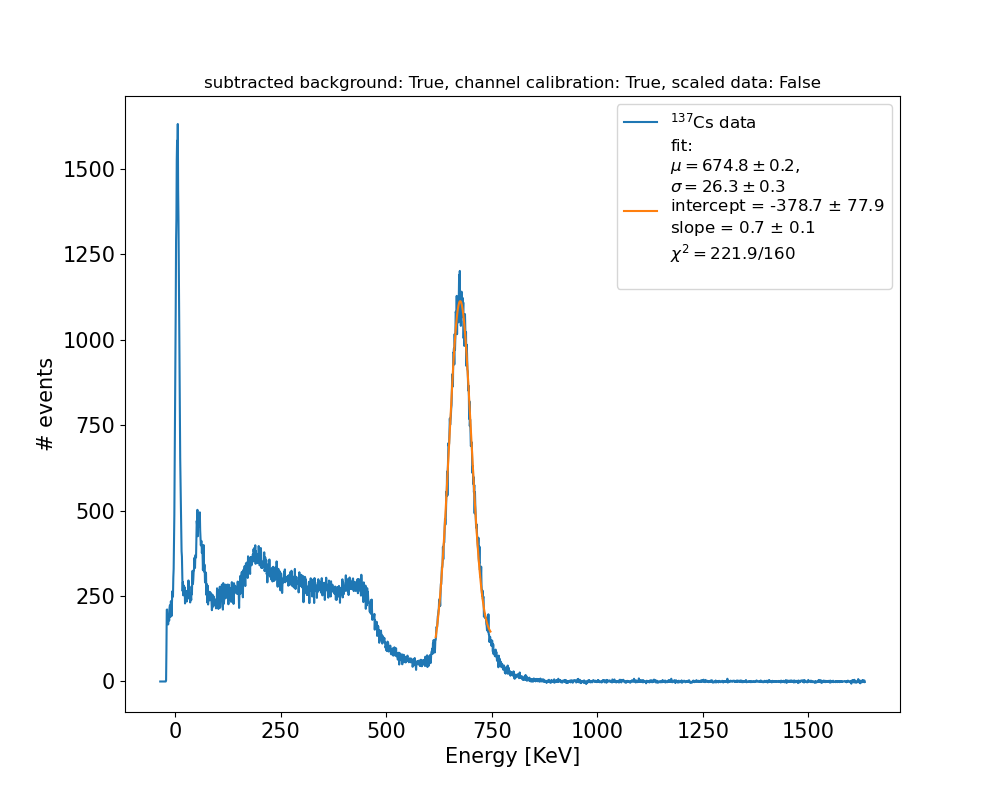
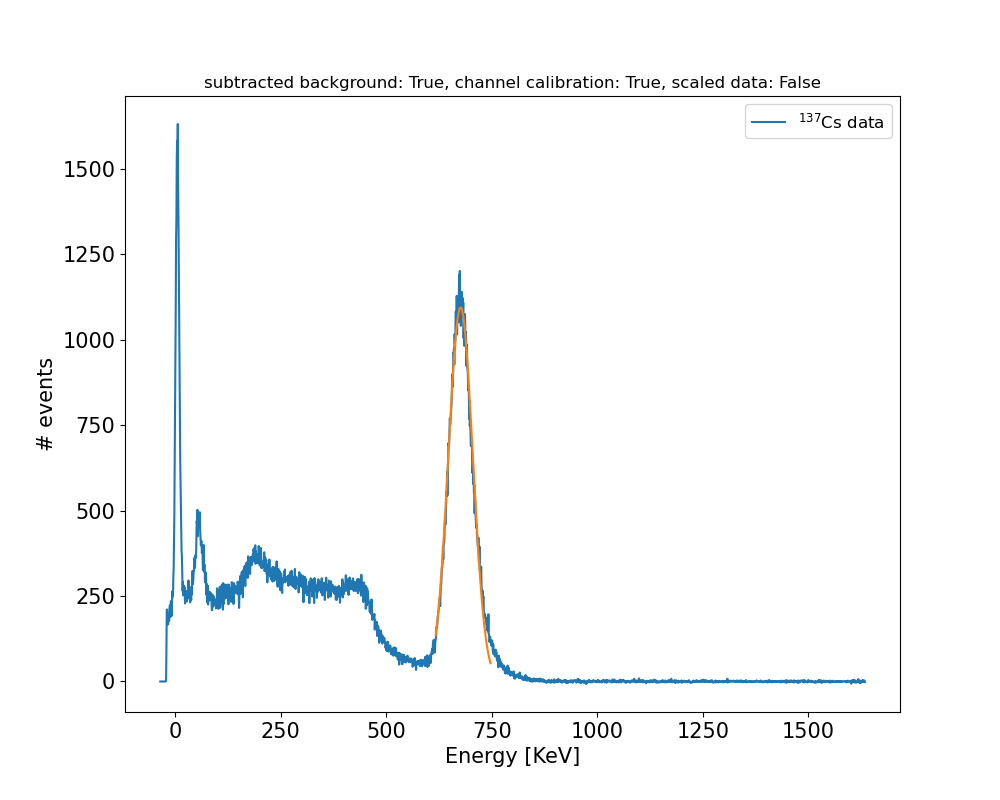
nesten ferdig med å fikse 4a

diff --git a/session4a/analyze_data.py b/session4a/analyze_data.py
@@ -5,15 +5,15 @@ from scipy.optimize import curve_fit
 import scipy.special as sci
 
 class ManageData:
-    def __init__(self, filename, create_fig=True):
+    def __init__(self, filename, create_fig=True, calibration_coeffs = None):
         self.filename = filename
+        self.calibration = calibration_coeffs # found manually, passed as argument
         self._read_spe()
         self.get_fit_called = False
         self.calibrate_background = False
         self.calibrate_calibration = False
         self.calibrate_scale = False
         self.model = None
-
         if create_fig: self.fig, self.ax = plt.subplots(figsize=(10, 8))
     
     def _read_spe(self):
@@ -32,8 +32,9 @@ class ManageData:
             skip_header=11, max_rows=1, dtype=int)
         self.signal = np.genfromtxt(self.filename, skip_header=12,
             max_rows=self.last_channel+1, dtype=float)
-        self.calibration = np.genfromtxt(self.filename,
-            skip_header=11+self.last_channel+10+2+1, max_rows=1, dtype=float, # had to move down one extra row to find the calibration in the new .Spe files
+        if self.calibration is None: # if no calibration coeffs are passed, read them from .Spe files
+            self.calibration = np.genfromtxt(self.filename,
+                skip_header=11+self.last_channel+10+2+1, max_rows=1, dtype=float, # had to move down one extra row to find the calibration in the new .Spe files
             usecols=[0,1,2])
         self.channels = np.arange(self.first_channel, self.last_channel+1, 1, dtype=float)        
 
@@ -314,8 +315,10 @@ def gamma_wrapper(x, A, k, loc, scale, slope, intercept):
 
 if __name__ == "__main__":
     distance_plot = False
-    sources_plot = False
-    calibration_plot = True
+    sources_plot = True
+    calibration_plot = False
+    #calibration_coeffs = [-445.42857142857133,4.365079365079365,0] # last one is dummy, order is reversed because of how class uses them
+    calibration_coeffs = None # the ones found using Barium where absolutely terrible, useless
 
     Ba_gamma_1 = 81.0 # keV
     Ba_gamma_2 = 356 # keV
@@ -372,14 +375,14 @@ if __name__ == "__main__":
     if distance_plot:
         distances = ["5cm","10cm","15cm","20cm"]
         for distance in distances:
-            Cs137 = ManageData(f"137Cs_{distance}.Spe")
+            Cs137 = ManageData(f"137Cs_{distance}.Spe",calibration_coeffs=calibration_coeffs)
             Cs137.calibrate_data(calibration=True, background=avg_background, scale=False)
             Cs137.plot_data(show_plot=False, label=r"$^{137}$Cs data")
             adjust = -50
             Cs137.get_fit(
                 curve_start = 450 - adjust+300,
                 curve_stop = 630 + adjust+380,
-                init_guess = [10000, Cs_gamma, 20, -1e-3, 0],   # Amplitude, mean, variance, slope, intercept. Guess for normal distribution with slope.
+                init_guess = [10000, Cs_gamma, 20],   # Amplitude, mean, variance Guess for normal distribution 
                 plot_fit = True,
                 show_plot = True,
                 model = "normal"
@@ -387,7 +390,7 @@ if __name__ == "__main__":
     if sources_plot:
         sources = ["133Ba","60Co"]
         for source in sources:
-            data = ManageData(f"{source}_5cm.Spe")
+            data = ManageData(f"{source}_5cm.Spe",calibration_coeffs=calibration_coeffs)
             data.calibrate_data(calibration=True, background=avg_background, scale=False)
             if source=="133Ba":
                 data.plot_data(show_plot=False, label=rf"{source} data")
@@ -395,19 +398,19 @@ if __name__ == "__main__":
                 data.get_fit(
                     curve_start = 50 - adjust,
                     curve_stop = 200 + adjust,
-                    init_guess = [10000, Ba_gamma_1, 20, -1e-3, 0],   # Amplitude, mean, variance, slope, intercept. Guess for normal distribution with slope.
+                    init_guess = [10000, Ba_gamma_1, 20],   # Amplitude, mean, variance Guess for normal distribution
                     plot_fit = True,
                     show_plot = False, # plotting more peaks
                     model = "normal"
                 ) 
-                data2 = ManageData(f"{source}_5cm.Spe")
+                data2 = ManageData(f"{source}_5cm.Spe",calibration_coeffs=calibration_coeffs)
                 data2.calibrate_data(calibration=True, background=avg_background, scale=False)
                 data2.plot_data(show_plot=False, label=rf"{source} data")
                 adjust = -50
                 data2.get_fit(
                     curve_start = 370 - adjust,
                     curve_stop = 600 + adjust,
-                    init_guess = [10000, Ba_gamma_2, 20, -1e-3, 0],   # Amplitude, mean, variance, slope, intercept. Guess for normal distribution with slope.
+                    init_guess = [10000, Ba_gamma_2, 20],   # Amplitude, mean, variance. Guess for normal distribution 
                     plot_fit = True,
                     show_plot = True,
                     model = "normal"
@@ -418,19 +421,19 @@ if __name__ == "__main__":
                 data.get_fit(
                 curve_start = 1250 - adjust+120,
                 curve_stop = 1550 + adjust+120,
-                init_guess = [100, Co_gamma_1, 20, -1e-3, 0],   # Amplitude, mean, variance, slope, intercept. Guess for normal distribution with slope.,   # Amplitude, mean, variance, slope, intercept. Guess for normal distribution with slope.
+                init_guess = [100, Co_gamma_1, 20],   # Amplitude, mean, variance Guess for normal distribution 
                     plot_fit = True,
                     show_plot = False, # are plotting more peaks
                     model = "normal"
                 ) 
-                data2 = ManageData(f"{source}_5cm.Spe")
+                data2 = ManageData(f"{source}_5cm.Spe",calibration_coeffs=calibration_coeffs)
                 data2.calibrate_data(calibration=True, background=avg_background, scale=False)
                 data2.plot_data(show_plot=False, label=rf"{source} data")
                 adjust = -50
                 data2.get_fit(
                 curve_start = 1410 - adjust+150,
                 curve_stop = 1700 + adjust+150,
-                init_guess = [1000, Co_gamma_2, 20, -1e-3, 0],   # Amplitude, mean, variance, slope, intercept. Guess for normal distribution with slope.
+                init_guess = [1000, Co_gamma_2, 20],   # Amplitude, mean, variance, . Guess for normal distribution.
                     plot_fit = True,
                     show_plot = True,
                     model = "normal"

diff --git a/session4a/post.py b/session4a/post.py
@@ -29,34 +29,31 @@ for i in range(len(A0s)):
 # Skrive til fil
 np.savetxt('activity.txt', tekst, fmt='%s')
 
-# use approximation where FWHM = 2.355 sigma
-# end-start = 2.355 sigma
-def events(const_gauss,slope,intercept,FWHM): # calculate events under peak
-    # area under FWHM approximately 76% of total area of Gaussian
-    return const_gauss*0.76*FWHM + slope/2*(FWHM**2)+FWHM*intercept
-
-
+# area under gaussian
+def events(amp,sigma):
+    return amp*sigma*((2*np.pi)**0.5)
 
 
 ####### Distances, 137Cs #####################
 distances = [5,10,15,20] # in cm
-slopes = [1.8,0.7,0.4,0.3]
-mus = [671,675,677,677]
-intercepts = [-1067,-379,-228,-179]
-peak_heights = [2600,1100,550,330]
-consts_gauss = []
-for i in range(len(distances)):
-    consts_gauss.append(peak_heights[i]-intercepts[i]-slopes[i]*mus[i])
-FWHMs = [57.14,53.88,50.16,46.81] # in keV
+distance_errs = [0.1,0.1,0.1,0.1] # 5 mm error because of resolution of ruler
+mus = []
+mu_errs = []
+sigmas = []
+sigma_errs = []
+amps = []
+amp_errs = []
 ts_dist = [289,295,297,298] # in seconds
 tekst = [] # re-initilize tekst
 tot_eff_dist = []
+tot_eff_dist_errs = []
 for i in range(len(distances)):
     A = activity(A0s[0],dts[0],T2s[0])*3.7*10**4 # calculate acitvity for 137Cs # convert from microCurie to disintegrations/sec
-    N = events(consts_gauss[i],slopes[i],intercepts[i],FWHMs[i])
+    N = events(amps[i],sigmas[i])
     tot_eff = epsilon_tot(N,A,ts_dist[i],0.8501)
     tot_eff_dist.append(tot_eff)
-    Omega = solid_angle(2.9,distances[i])
+    tot_eff_dist_errs.append()
+    Omega = solid_angle(2.54,distances[i])
     tekst.append(f"{Sources[0]} & {tot_eff} & {distances[i]} & {Omega}\\\\")
 
 np.savetxt('tot_eff.txt', tekst, fmt='%s')
@@ -71,7 +68,7 @@ def my_function2(x,a):
 xdata = np.arange(5,21,0.5)
 popt, pcov = curve_fit(my_function, np.array(distances),np.array(tot_eff_dist))
 plt.plot(xdata, my_function(xdata, *popt), color='red', label='Fitted Curve')
-plt.plot(distances,tot_eff_dist,'bo',label="137Cs 662keV peak")
+plt.errorbar(distances, tot_eff_dist, yerr=tot_eff_dist_errs,label= "137Cs 662keV peak", fmt='o',color='blue')
 plt.title("Total peak efficiency as a function of \n distance between detector and source")
 plt.xlabel('cm')
 plt.ylabel("detector efficiency")
@@ -83,29 +80,30 @@ plt.close()
 ##### Energy peaks, all sources #################
 Es = [81.0,356.0,662.0,1173.2,1332.5]
 tot_eff_all = []
+tot_eff_all_errs = []
 Is = [0.3331,0.6205,0.8501,0.9988,0.9998]
-sigmas = [6.2,16.2,57.14/2.355,30.1,34.0] # in keV # 
 ts_all = [293,293,289,298,298] # in seconds
-slopes = [-11.1,-2.6,1.8,0.0,0.0]
-mus = [63.0,360.4,671.2,1203.5,1365.1]
-intercepts = [1111.8,1289.7,-1066.8,11.7,28.5]
-peak_heights = [4500,1800,2600,25,20]
-consts_gauss = []
-for i in range(len(Es)):
-    consts_gauss.append(peak_heights[i]-intercepts[i]-slopes[i]*mus[i])
+mus = []
+mu_errs = []
+sigmas = []
+sigma_errs = []
+amps = []
+amp_errs = []
+
 source_indices = [1,1,0,2,2]
 conversion_factors = [10**3,10**3,3.7*10**4,10**3,10**3]
 tekst = [] # re-initialize tekst
 for i in range(len(Es)):
     A = activity(A0s[source_indices[i]],dts[source_indices[i]],T2s[source_indices[i]])*conversion_factors[i]# calculate acitvity for sources, convert to disintegrations/sec
-    N = events(consts_gauss[i],slopes[i],intercepts[i],sigmas[i]*2.355)
+    N = events(amps[i],sigmas[i])
     tot_eff = epsilon_tot(N,A,ts_all[i],Is[i])
     tot_eff_all.append(tot_eff)
     int_eff = epsilon_int(N,A,ts_all[i],Is[i],distances[0],2.9)
-    tekst.append(f"{Sources[source_indices[i]]} & {Es[i]} & {int_eff}\\\\")
+    int_eff_err = 
+    tekst.append(f"{Sources[source_indices[i]]} & {Es[i]} & {int_eff} \$ \pm \$ {int_eff_err}\\\\")
 np.savetxt('int_eff.txt', tekst, fmt='%s')
 
-plt.loglog(Es,tot_eff_all,"bo")
+plt.errorbar(Es, tot_eff_all, yerr=tot_eff_all_errs, fmt='o', color='blue')
 plt.title("Total peak efficiency as a function of energy")
 plt.xlabel("keV")
 plt.ylabel("detector efficiency")

diff --git a/session4a/fit_curve.py b/session4a/fit_curve.py
@@ -11,6 +11,7 @@ Co_gamma_2 = 1332.5   # keV.
 
 # kalibreringsdata
 x_data = np.array([120.6,183.6])
+x_errors = np.array([0.0,0.2])
 y_data = np.array([Ba_gamma_1,Ba_gamma_2])
 
 # Definer en funksjon som beskriver kurven vi ønsker å tilpasse
@@ -31,11 +32,11 @@ x_fit = np.linspace(min(x_data), max(x_data), 100)
 y_fit = line(x_fit, a, b)
 
 # Plotting av data og tilpasset kurve
-plt.scatter(x_data, y_data, label='Data', color='red')
-plt.plot(x_fit, y_fit, label='Tilpasset kurve', color='blue')
+plt.errorbar(x_data, y_data, xerr=x_errors, fmt='o',label='Data', color='red')
+plt.plot(x_fit, y_fit, label='Fitted line', color='blue')
 plt.xlabel('channel number')
 plt.ylabel('keV')
-plt.title('Kurvetilpasning')
+plt.title('Calibration linear fit')
 plt.legend()
 plt.grid()
 plt.show()
